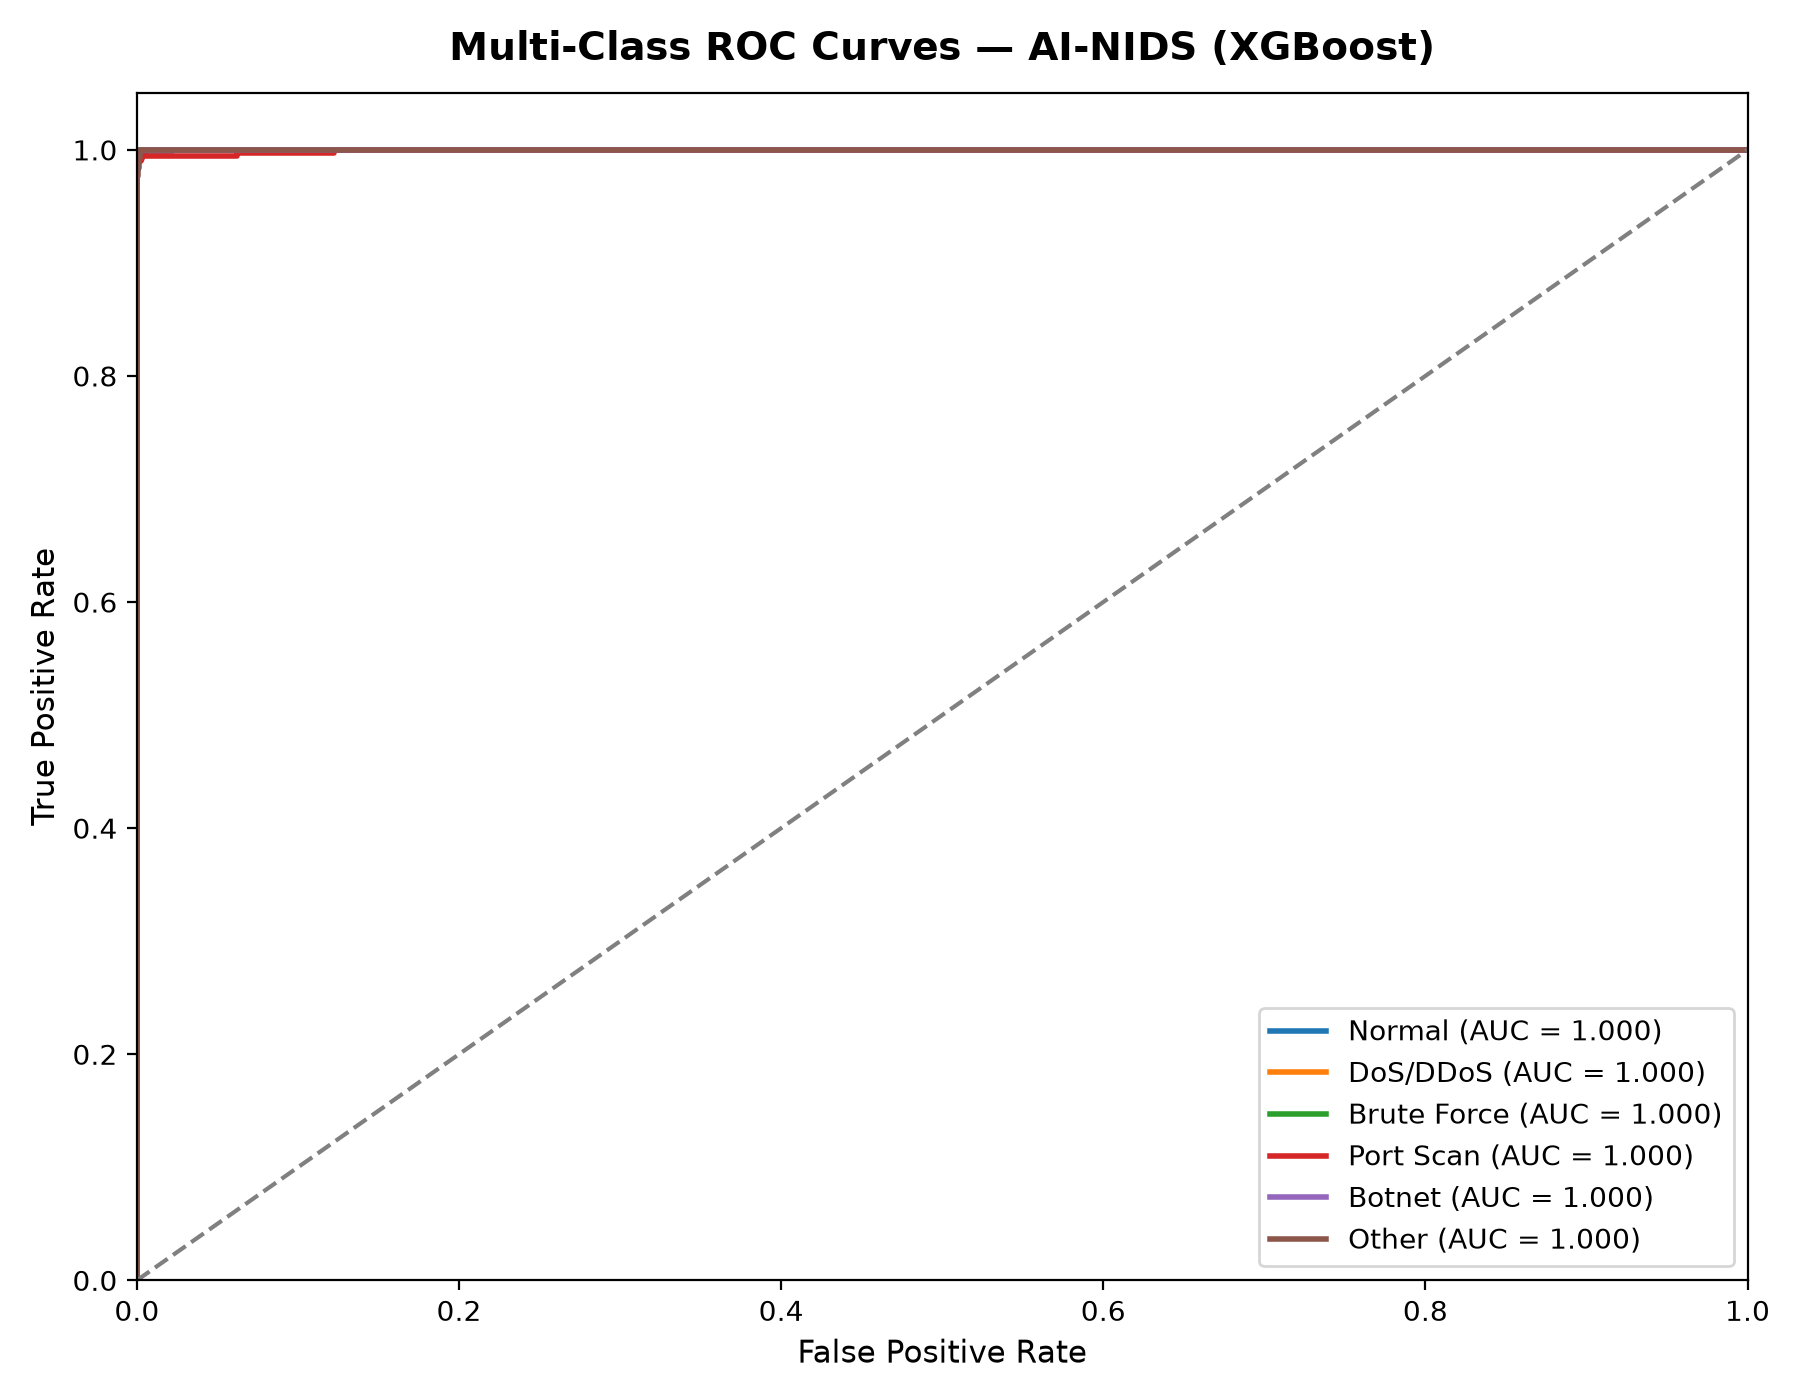
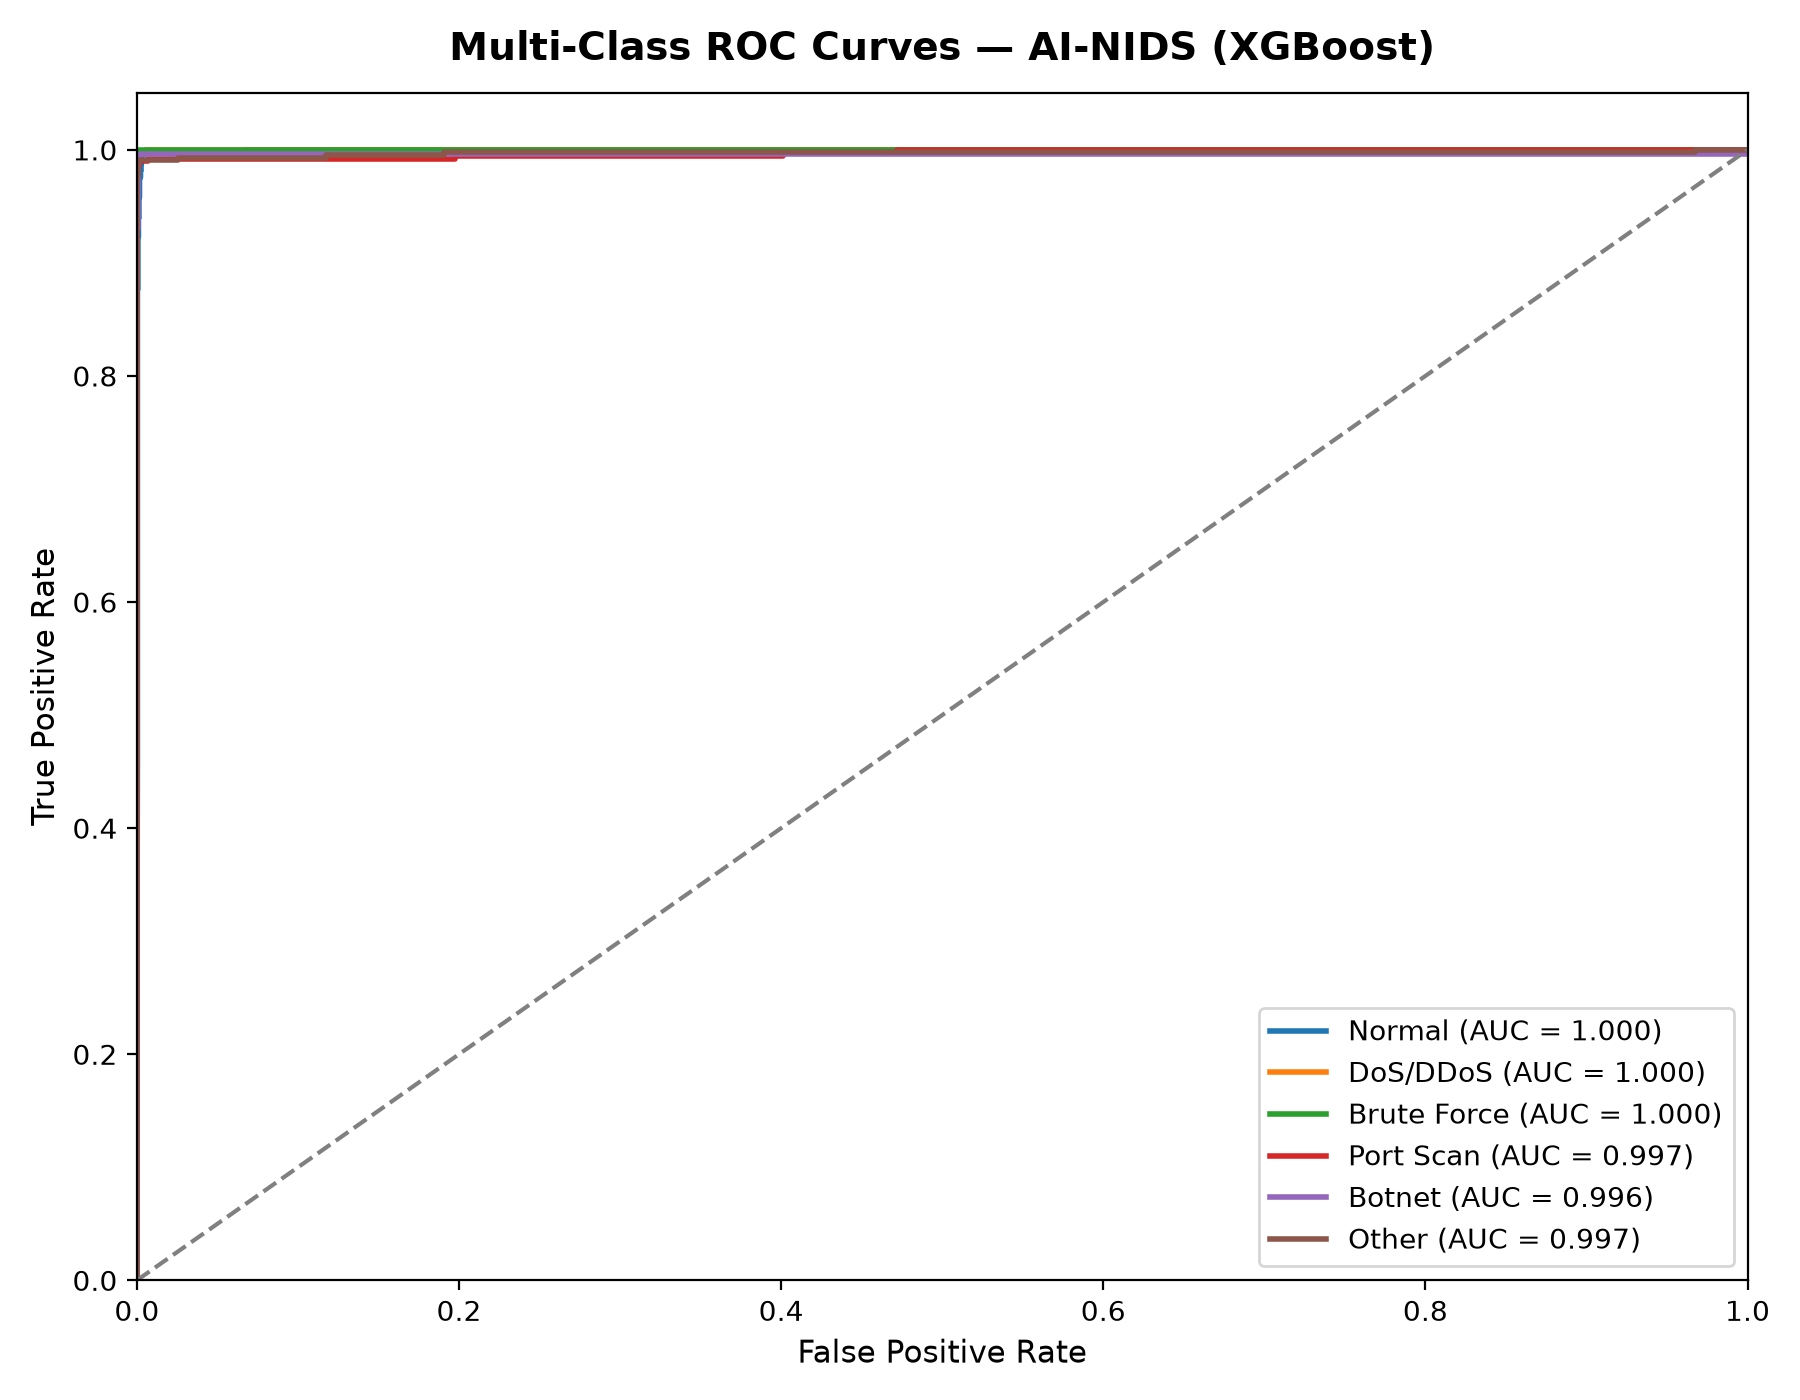
feat(ml): train champion model on 100% full dataset (2,313,810 rows) from archive/

Changed region(s): [[0.0622, 0.0921, 0.9644, 0.1229], [0.8711, 0.8293, 0.9022, 0.8907], [0.9022, 0.7986, 0.9333, 0.8293]]

diff --git a/ml/preprocessing/data_loader.py b/ml/preprocessing/data_loader.py
@@ -24,6 +24,7 @@ def load_feature_schema() -> dict:
 
 
 def load_data_from_archive(
+    use_full_dataset: bool = True,
     benign_sample_size: int = 100000,
     dos_sample_size: int = 80000,
     test_size: float = 0.20,
@@ -31,8 +32,8 @@ def load_data_from_archive(
 ) -> Tuple[pd.DataFrame, pd.DataFrame, pd.Series, pd.Series, List[str]]:
     """
     Directly loads parquet files from archive/ into memory,
-    maps labels, samples for class balance while keeping 100% of minority attacks,
-    and returns (X_train, X_test, y_train, y_test, feature_names).
+    maps labels to canonical classes, and returns train/test splits.
+    If use_full_dataset=True, trains on the entire 2,313,810 records without downsampling.
     """
     schema = load_feature_schema()
     feature_names = schema["features"]
@@ -41,7 +42,7 @@ def load_data_from_archive(
     if not parquet_files:
         raise FileNotFoundError(f"No parquet files found in {ARCHIVE_DIR}")
 
-    print(f"Loading {len(parquet_files)} parquet files directly from {ARCHIVE_DIR}...")
+    print(f"Loading all {len(parquet_files)} parquet files directly from {ARCHIVE_DIR}...")
     dfs = []
     for pf in parquet_files:
         fname = os.path.basename(pf)
@@ -52,29 +53,33 @@ def load_data_from_archive(
         dfs.append(df)
 
     full_df = pd.concat(dfs, ignore_index=True)
-    print(f"Total raw rows loaded: {len(full_df):,}")
+    print(f"Total raw records loaded: {len(full_df):,}")
 
-    # Class balance sampling: keep 100% of rare attacks, sample benign and DoS
-    sampled_dfs = []
-    for cls in CANONICAL_CLASSES:
-        cls_df = full_df[full_df["Canonical_Label"] == cls]
-        cls_count = len(cls_df)
-        
-        if cls == "Normal":
-            n = min(benign_sample_size, cls_count)
-            sampled = cls_df.sample(n=n, random_state=random_state)
-        elif cls == "DoS/DDoS":
-            n = min(dos_sample_size, cls_count)
-            sampled = cls_df.sample(n=n, random_state=random_state)
-        else:
-            # 100% of minority attacks preserved!
-            sampled = cls_df
+    if use_full_dataset:
+        print("Using 100% of the entire real dataset without downsampling (2,313,810 rows)!")
+        combined = full_df
+    else:
+        # Class balance sampling option
+        sampled_dfs = []
+        for cls in CANONICAL_CLASSES:
+            cls_df = full_df[full_df["Canonical_Label"] == cls]
+            cls_count = len(cls_df)
             
-        print(f"  {cls:<12}: using {len(sampled):,} rows (from {cls_count:,} total)")
-        sampled_dfs.append(sampled)
+            if cls == "Normal":
+                n = min(benign_sample_size, cls_count)
+                sampled = cls_df.sample(n=n, random_state=random_state)
+            elif cls == "DoS/DDoS":
+                n = min(dos_sample_size, cls_count)
+                sampled = cls_df.sample(n=n, random_state=random_state)
+            else:
+                sampled = cls_df
+                
+            print(f"  {cls:<12}: using {len(sampled):,} rows (from {cls_count:,} total)")
+            sampled_dfs.append(sampled)
 
-    combined = pd.concat(sampled_dfs, ignore_index=True)
-    print(f"\nFinal in-memory balanced dataset: {len(combined):,} rows")
+        combined = pd.concat(sampled_dfs, ignore_index=True)
+
+    print(f"\nTraining dataset shape: {len(combined):,} rows x {len(feature_names)} features")
 
     # Features and labels
     X = combined[feature_names].copy()

diff --git a/ml/training/train.py b/ml/training/train.py
@@ -29,10 +29,9 @@ def train_models():
     print("AI-NIDS: Starting Offline ML Training Pipeline")
     print("=" * 65)
 
-    # 1. Load data directly from archive/
+    # 1. Load data directly from archive/ (100% full dataset, 2,313,810 rows)
     X_train, X_test, y_train, y_test, _ = load_data_from_archive(
-        benign_sample_size=100000,
-        dos_sample_size=80000,
+        use_full_dataset=True,
         test_size=0.20,
         random_state=42
     )
@@ -41,11 +40,12 @@ def train_models():
 
     # 2. Train Random Forest Baseline
     print("-" * 65)
-    print("Training Model 1: Random Forest Classifier (n_estimators=100, max_depth=20)...")
+    print("Training Model 1: Random Forest Classifier (scaled for 1.85M rows)...")
     t0 = time.time()
     rf = RandomForestClassifier(
-        n_estimators=100,
-        max_depth=20,
+        n_estimators=60,
+        max_depth=18,
+        max_samples=0.25,  # Bagging 25% of 1.85M rows per tree for high speed & low memory footprint
         n_jobs=-1,
         class_weight="balanced",
         random_state=42
